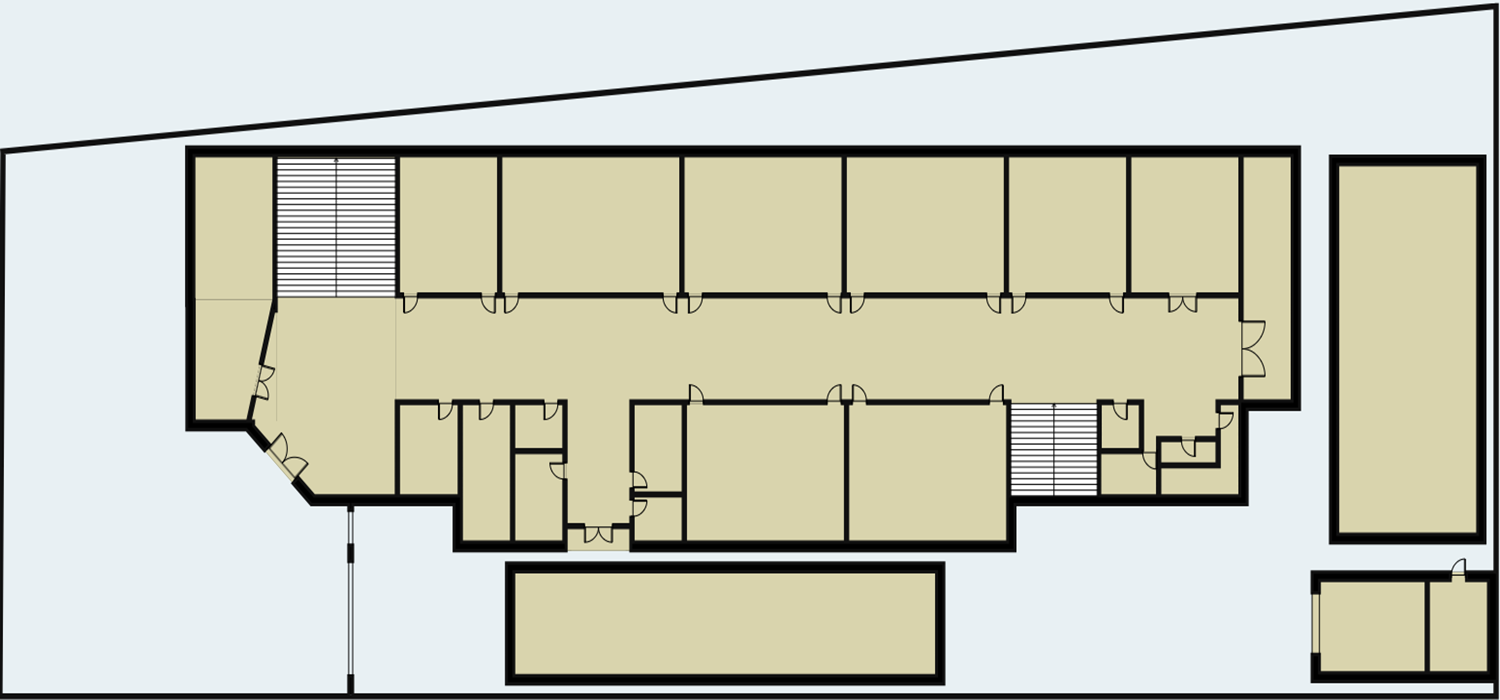
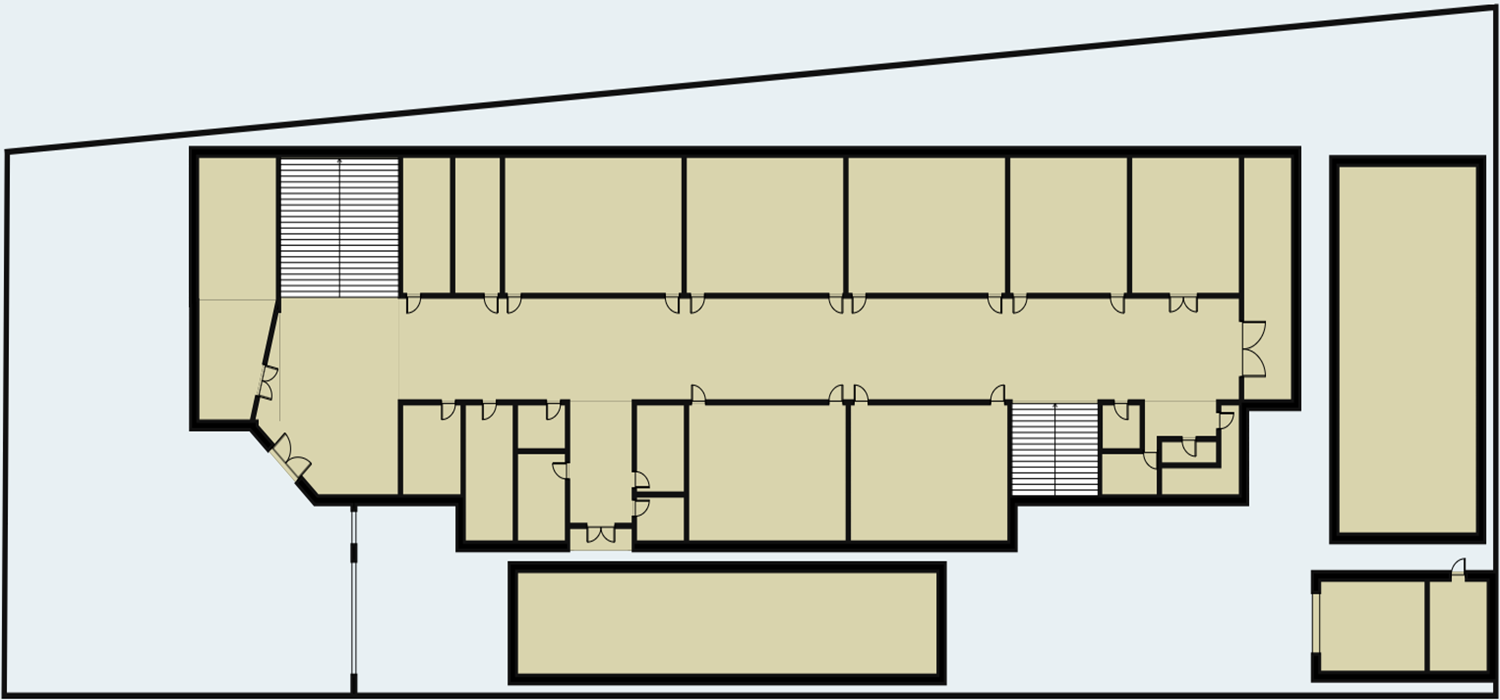
Add files via upload

diff --git a/citemap.html b/citemap.html
@@ -24,8 +24,23 @@
         <img src="Floor1.png" width="100%" height="100%" usemap="#groundmap">
         <map name="groundmap">
             <area shape="poly" coords="196,157,273,157,271,309,246,419,196,419" title="Prayer Room" onclick="prayroomButton()" href="">
-            <area shape="rect" coords="400,296,498,157" title="115" onclick="r115Button()" href="">
+            <area shape="rect" coords="404,157,451,295" title="114" onclick="r114Button()" href="">
+            <area shape="rect" coords="455,159,500,297" title="115" onclick="r115Button()" href="">
+            <area shape="rect" coords="504,159,682,295" title="101" onclick="r101Button()" href="">
+            <area shape="rect" coords="686,155,845,297" title="103" onclick="r103Button()" href="">
+            <area shape="rect" coords="849,157,1005,295" title="105" onclick="r105Button()" href="">
+            <area shape="rect" coords="1011,159,1127,297" title="106" onclick="r106Button()" href="">
+            <area shape="rect" coords="1133,157,1239,296" title="107" onclick="r107Button()" href="">
+            <area shape="rect" coords="1244,158,1292,400" title="Balcony" onclick="balconyButton()" href="">
+            <area shape="rect" coords="401,404,461,495" title="116" onclick="r116Button()" href="">
+            <area shape="rect" coords="467,404,512,542" title="117" onclick="r117Button()" href="">
+            <area shape="rect" coords="518,405,565,448" title="121" onclick="r121Button()" href="">
+            <area shape="rect" coords="518,454,565,542" title="123" onclick="r123Button()" href="">
+            <area shape="rect" coords="638,407,685,491" title="119" onclick="r119Button()" href="">
+            <area shape="rect" coords="636,499,686,542" title="120" onclick="r120Button()" href="">
+            <area shape="rect" coords="687,405,846,540" title="102" onclick="r102Button()" href="">
             <area shape="rect" coords="849,402,1007,541" title="104" onclick="r104Button()" href="">
+            <area shape="rect" coords="1103,404,1240,496" title="Comfort Rooms: 1st Floor" onclick="cr1Button()" href="">
             <area shape="rect" coords="1333,158,1484,540" title="Open Area" onclick="openButton()" href="">
             <area shape="rect" coords="1314,578,1493,677" title="Canteen" onclick="canteenButton()" href="">
             <area shape="rect" coords="508,568,942,684" title="Parking Lot" onclick="parkingButton()" href="">

diff --git a/citemap_script.js b/citemap_script.js
@@ -18,15 +18,62 @@ window.onload = () => {
     floor(1);
   };
 
+// Highlights the Coordinates
+
 // Room Buttons Testing
 function prayroomButton() {
     alert("This is the campus' Prayer Room.")
 }
+function r114Button() {
+    alert("This is room no.114.")
+}
 function r115Button() {
     alert("This is room no.115.")
 }
+function r101Button() {
+    alert("This is room no.101.")
+}
+function r103Button() {
+    alert("This is room no.103.")
+}
+function r105Button() {
+    alert("This is room no.105.")
+}
+function r106Button() {
+    alert("This is room no.106.")
+}
+function r107Button() {
+    alert("This is room no.107. This room is designated as the Industrial Engineering Lab.")
+}
+function balconyButton() {
+    alert("This is not a room. It is meant to represent the balcony on top of the exit here.")
+}
+function r116Button() {
+    alert("This is room no.116.")
+}
+function r117Button() {
+    alert("This is room no.117.")
+}
+function r121Button() {
+    alert("This is room no.121.")
+}
+function r123Button() {
+    alert("This is room no.123.")
+}
+function r119Button() {
+    alert("This is room no.119.")
+}
+function r120Button() {
+    alert("This is room no.120. It is the Guidance Councilor's Office.")
+}
+function r102Button() {
+    alert("This is room no.102. It is the Testing Area.")
+}
 function r104Button() {
-    alert("This is room no.104. It is currently the office of the ACES PUP Binan Organization.")
+    alert("This is room no.104. It is currently the organization room of the ACES PUP Binan Organization.")
+}
+function cr1Button() {
+    alert("These are the Comfort Rooms and Storage Rooms of the 1st Floor.")
 }
 function openButton() {
     alert("An open area behind the campus. It has a basketball/volleyball court. It is also perfect for hosting crowded activities, like concerts.")
